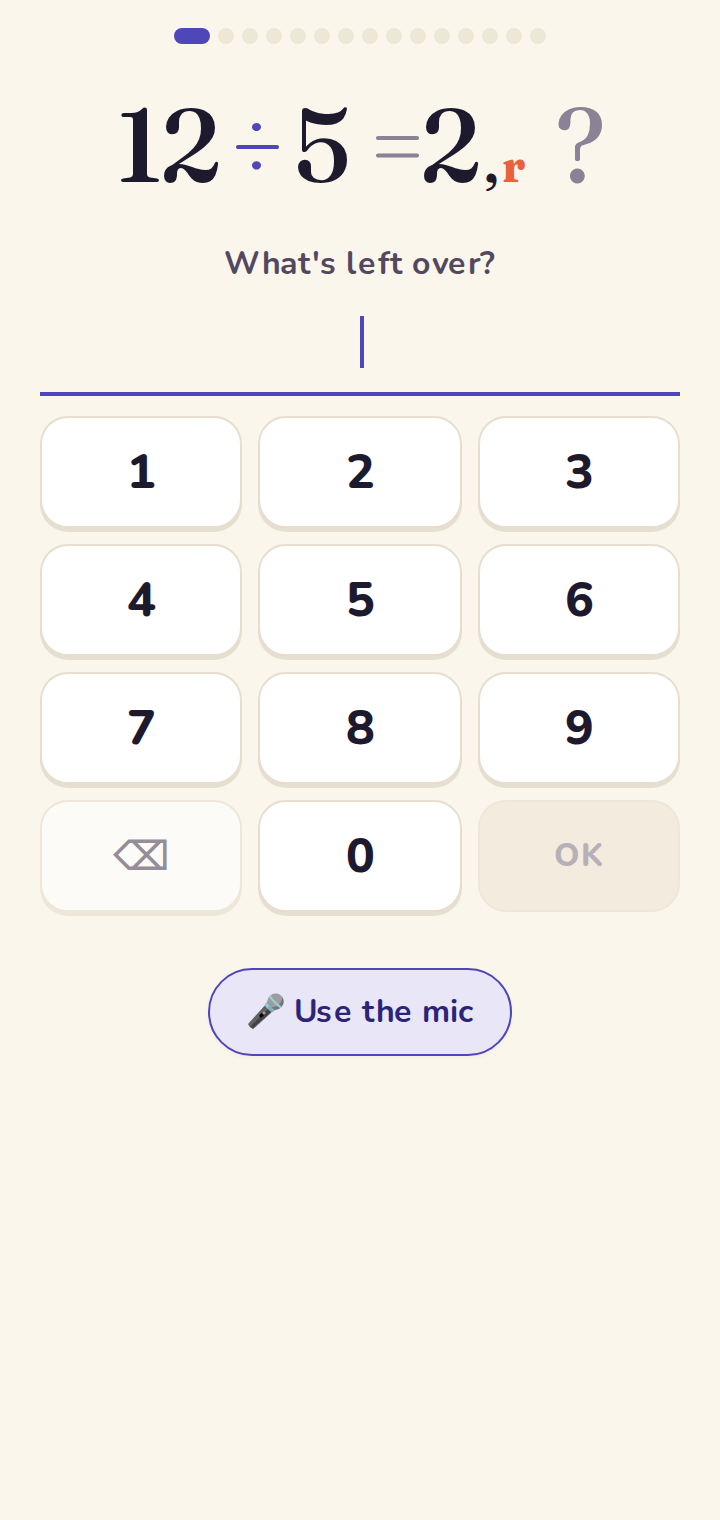
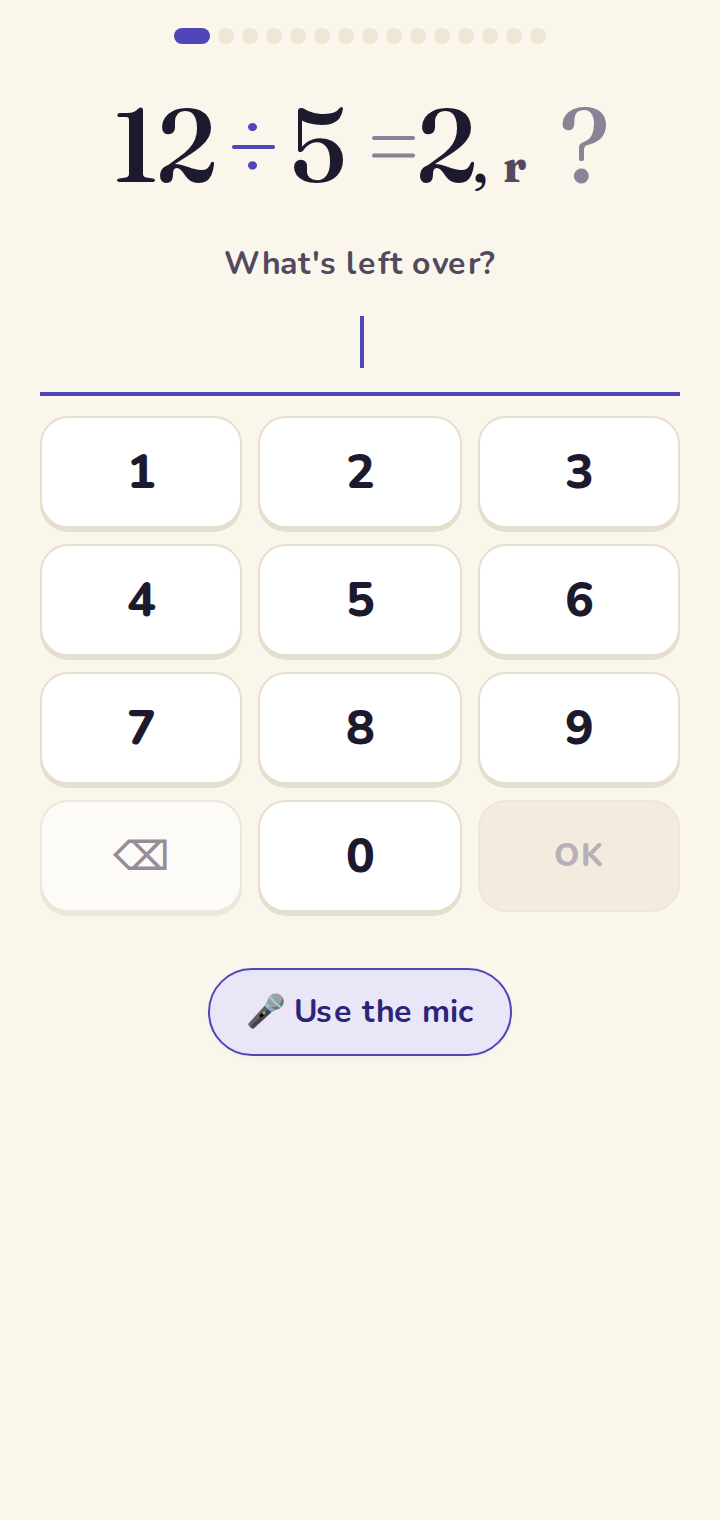
preview: specs-niveau-3-division-avec-reste @ 266270c764b578e64e679bb7e8aac4330b04ae99 7c64e7c36129242ba39f46d9a965fdb50d9a69be

diff --git a/previews/specs-niveau-3-division-avec-reste/src/screens/ParentDashboard.js b/previews/specs-niveau-3-division-avec-reste/src/screens/ParentDashboard.js
@@ -1,3 +1,3 @@
-import{Fragment as x,jsx as e,jsxs as s}from"preact/jsx-runtime";import{useState as c,useMemo as i,useEffect as oa,useRef as ca}from"react";import{isDivisionUnlocked as la,isRemainderUnlocked as da,activeLevel as ma}from"../lib/badges.js";import{countMastered as f}from"../lib/leitner.js";import{getHardestFacts as pa}from"../lib/hardestFacts.js";import{getActiveStreak as va}from"../lib/streak.js";import{todayISO as ua}from"../lib/utils.js";import ba from"../components/ProgressGrid.js";import ha from"../components/DivisionProgressGrid.js";import Na from"../components/RemainderProgressGrid.js";import ga from"../components/BackChevron.js";import fa from"../components/FeedbackModal.js";import R from"../components/EvolutionChart.js";import ka from"../components/NotificationSettings.js";import ya from"../components/LanguageToggle.js";import{useLang as Ca}from"../i18n/lang.js";import{useParentDashboardStrings as xa}from"../i18n/parent.js";import{createTransfer as Sa,transferConfigured as Ma,TRANSFER_TTL_MINUTES as wa}from"../lib/transfer.js";const I=10,Pa=20;function Ta({profile:r,onBack:B,onExport:E,onImport:_,onAddProfile:H,onDeleteProfile:U,onShowPrivacy:q,onShowChangelog:G}){const[S,M]=c(!1),[u,w]=c(""),[V,P]=c(!1),[O,Y]=c(!1),[l,b]=c("idle"),p=typeof l=="object"?l.link:null,[W,T]=c(!1),k=ca(null),F=async(t,n)=>{try{await navigator.clipboard.writeText(t),n(!0),setTimeout(()=>n(!1),2e3)}catch{}},a=xa(),{lang:D}=Ca(),y=`/previews/specs-niveau-3-division-avec-reste/guide/${D==="fr"?"":`${D}/`}`,h=i(()=>la(r),[r]),$=i(()=>da(r),[r]),N=i(()=>r.divisionFacts??[],[r.divisionFacts]),g=i(()=>r.remainderFacts??[],[r.remainderFacts]),[C,J]=c(()=>ma(r)),j=$&&C==="rem",Q=h&&C==="div",z=async()=>{const t=window.location.origin+"/previews/specs-niveau-3-division-avec-reste/";if(navigator.share){try{await navigator.share({title:"Tablito",text:a.shareText,url:t})}catch{}return}await F(t,Y)},K=async()=>{if(l!=="idle"){b("idle"),T(!1);return}b("loading");const t=await Sa(r);b(t?{link:t}:"error")};oa(()=>{if(!p)return;let t=!1;return import("lean-qr").then(({generate:n})=>{!t&&k.current&&n(p).toCanvas(k.current)}).catch(()=>{t||b("error")}),()=>{t=!0}},[p]);const o=j?{facts:g,mastered:`${f(g)}/${g.length}`,masteredLabel:a.remaindersMastered,opPlural:a.opRemaindersPlural,opSingular:a.opRemainder,grid:e(Na,{facts:g})}:Q?{facts:N,mastered:`${f(N)}/${N.length}`,masteredLabel:a.divisionsMastered,opPlural:a.opDivisionsPlural,opSingular:a.opDivision,grid:e(ha,{facts:N})}:{facts:r.facts,mastered:`${f(r.facts)}/${r.facts.length}`,masteredLabel:a.multiplicationsMastered,opPlural:a.opMultiplicationsPlural,opSingular:a.opMultiplication,grid:e(ba,{facts:r.facts})},X=[{key:"mult",label:a.multiplications},{key:"div",label:a.divisions},...$?[{key:"rem",label:a.remainders}]:[]],{boxCounts:Z,maxBoxCount:aa}=i(()=>{const t=[0,0,0,0,0,0];for(const n of o.facts)n.introduced?t[n.box]++:t[0]++;return{boxCounts:t,maxBoxCount:Math.max(...t,1)}},[o.facts]),L=i(()=>pa(r,I,5),[r]),ea=i(()=>[...r.sessionHistory].reverse().slice(0,10),[r.sessionHistory]),d=i(()=>{const t=r.sessionHistory.slice(-Pa);if(t.length<2)return null;const n=[],v=[];for(const m of t){const A=a.formatShortDate(new Date(m.date));n.push({date:A,value:Math.round(m.correctCount/m.questionsCount*100)}),v.push({date:A,value:m.averageTimeMs/1e3})}const ia=Math.max(Math.ceil(Math.max(...v.map(m=>m.value))),4);return{accuracy:n,time:v,timeYMax:ia}},[r.sessionHistory,a]),ta=`${f(r.facts)}/${r.facts.length}`,sa=["var(--box-gray)","var(--box-red)","var(--box-orange)","var(--box-yellow)","var(--box-lightgreen)","var(--box-green)"],ra=["N/A","B1","B2","B3","B4","B5"],na=()=>{u.trim()&&(_(u.trim()),M(!1),w(""))};return s("div",{className:"parent-dashboard",children:[s("div",{className:"parent-header",children:[e("button",{className:"parent-back-btn",onClick:B,"aria-label":a.back,children:e(ga,{})}),s("div",{className:"parent-header-titles",children:[e("div",{className:"parent-eyebrow",children:a.parentArea}),e("div",{className:"parent-title",children:a.profileSuffix(r.name)})]})]}),s("div",{className:"parent-section",children:[e("h3",{children:a.overview}),s("div",{className:`parent-stats-grid${h?" parent-stats-grid--three":""}`,children:[s("div",{className:"parent-stat-card",children:[e("div",{className:"parent-stat-value",children:r.totalSessions}),e("div",{className:"parent-stat-label",children:a.sessions})]}),s("div",{className:"parent-stat-card",children:[e("div",{className:"parent-stat-value",children:va(r,ua())}),e("div",{className:"parent-stat-label",children:a.currentStreak})]}),s("div",{className:"parent-stat-card",children:[e("div",{className:"parent-stat-value",children:r.longestStreak}),e("div",{className:"parent-stat-label",children:a.bestStreak})]}),!h&&s("div",{className:"parent-stat-card",children:[e("div",{className:"parent-stat-value",children:ta}),e("div",{className:"parent-stat-label",children:a.masteredFacts})]})]})]}),h&&s(x,{children:[e("div",{className:"progress-tabs parent-op-tabs",role:"tablist","aria-label":a.operation,children:X.map(({key:t,label:n})=>e("button",{type:"button",className:`progress-tab ${C===t?"active":""}`,onClick:()=>J(t),children:n},t))}),e("div",{className:"parent-section",children:s("div",{className:"parent-stat-card parent-mastery-card",children:[e("div",{className:"parent-stat-value",children:o.mastered}),e("div",{className:"parent-stat-label",children:o.masteredLabel})]})})]}),s("div",{className:"parent-section",children:[s("h3",{children:[a.boxDistribution,e("a",{className:"parent-section-help",href:`${y}#principes`,target:"_blank",rel:"noopener noreferrer","aria-label":a.learnMoreLeitner,children:"?"})]}),e("p",{className:"parent-section-subtitle",children:a.boxDistributionSubtitle(o.opPlural)}),e("div",{className:"parent-histogram",children:Z.map((t,n)=>s("div",{className:"parent-histogram-bar",children:[e("div",{className:"parent-histogram-count",children:t}),e("div",{className:"parent-histogram-fill",style:{height:`${t/aa*100}%`,background:sa[n]}}),e("div",{className:"parent-histogram-label",children:ra[n]})]},n))})]}),s("div",{className:"parent-section",children:[s("h3",{children:[a.leitnerGrid,e("a",{className:"parent-section-help",href:`${y}#principes`,target:"_blank",rel:"noopener noreferrer","aria-label":a.learnMoreLeitner,children:"?"})]}),e("p",{className:"parent-section-subtitle",children:a.leitnerGridSubtitle(o.opSingular)}),o.grid]}),d&&s(x,{children:[s("div",{className:"parent-section",children:[e("h3",{children:a.correctAnswerRate}),e(R,{data:d.accuracy,yMin:0,yMax:100,yTicks:[0,25,50,75,100],formatY:t=>`${t}%`,color:"var(--primary)"})]}),s("div",{className:"parent-section",children:[e("h3",{children:a.averageResponseTime}),e(R,{data:d.time,yMin:0,yMax:d.timeYMax,yTicks:[0,d.timeYMax/2,d.timeYMax],formatY:t=>`${t.toFixed(1)}s`,color:"var(--sage)"})]})]}),L.length>0&&s("div",{className:"parent-section",children:[e("h3",{children:a.hardestFacts}),e("p",{className:"parent-section-subtitle",children:a.hardestFactsSubtitle(I)}),e("div",{className:"parent-hard-facts",children:L.map(t=>s("div",{className:"parent-hard-fact",children:[e("span",{className:`parent-hard-fact-kind parent-hard-fact-kind--${t.kind}`,"aria-label":t.kind==="rem"?a.factRemainder:t.kind==="div"?a.factDivision:a.factMultiplication,children:t.kind==="rem"?a.remSymbol:t.kind==="div"?a.divSymbol:a.multSymbol}),e("span",{className:"parent-hard-fact-name",children:t.kind==="rem"?a.formatRemFact(t.divisor*t.quotient,t.divisor*t.quotient+t.divisor-1,t.divisor):t.kind==="div"?a.formatDivFact(t.dividend,t.divisor,t.quotient):a.formatMultFact(t.a,t.b,t.product)}),s("span",{className:"parent-hard-fact-errors",children:[a.errors(t.errorCount)," | ",a.boxLabel(t.box)]})]},`${t.kind}-${t.key}`))})]}),r.sessionHistory.length>0&&s("div",{className:"parent-section",children:[e("h3",{children:a.sessionHistory}),e("div",{className:"parent-session-history",children:ea.map(t=>{const n=a.formatLongDate(new Date(t.date)),v=(t.averageTimeMs/1e3).toFixed(1);return s("div",{className:"parent-session-row",children:[e("span",{className:"parent-session-date",children:n}),s("span",{className:"parent-session-score",children:[t.correctCount,"/",t.questionsCount]}),s("span",{className:"parent-session-time",children:[v,"s"]})]},t.date)})})]}),s("div",{className:"parent-section",children:[e("h3",{children:a.backup}),s("div",{className:"parent-actions",children:[Ma()&&e("button",{className:"parent-action-btn",onClick:K,children:a.transfer}),e("button",{className:"parent-action-btn",onClick:E,children:a.export}),e("button",{className:"parent-action-btn",onClick:()=>M(!S),children:a.import})]}),l!=="idle"&&s("div",{className:"parent-transfer-area",children:[l==="loading"&&e("p",{className:"parent-transfer-status",children:a.transferPreparing}),l==="error"&&e("p",{className:"parent-transfer-status parent-transfer-status--error",children:a.transferError}),p&&s(x,{children:[e("canvas",{ref:k,className:"parent-transfer-qr",role:"img","aria-label":a.transferQrAlt}),e("p",{className:"parent-transfer-hint",children:a.transferHint(wa)}),e("button",{className:"parent-action-btn",onClick:()=>F(p,T),children:W?a.linkCopied:a.transferCopyLink})]})]})]}),s("div",{className:"parent-section",children:[e("h3",{children:a.helpAndFeedback}),s("div",{className:"parent-actions",children:[e("a",{className:"parent-action-btn",href:y,target:"_blank",rel:"noopener noreferrer",children:a.userGuide}),e("button",{className:"parent-action-btn",onClick:()=>P(!0),children:a.sendFeedback})]})]}),e(ka,{}),s("div",{className:"parent-section",children:[e("h3",{children:a.shareTablito}),e("p",{className:"parent-section-subtitle",children:a.shareSubtitle}),e("div",{className:"parent-actions",children:e("button",{className:"parent-action-btn",onClick:z,children:O?a.linkCopied:a.shareApp})})]}),e("div",{className:"parent-section",children:e(ya,{})}),s("div",{className:"parent-section",children:[e("h3",{children:a.about}),s("div",{className:"parent-actions",children:[e("button",{className:"parent-action-btn",onClick:G,children:a.whatsNew}),e("button",{className:"parent-action-btn",onClick:q,children:a.privacy})]})]}),s("div",{className:"parent-section",children:[e("h3",{children:a.profiles}),e("p",{className:"parent-section-subtitle",children:a.profilesSubtitle(r.name)}),s("div",{className:"parent-actions",children:[e("button",{className:"parent-action-btn",onClick:H,children:a.addChild}),e("button",{className:"parent-action-btn parent-action-btn--danger",onClick:U,children:a.deleteThisProfile})]})]}),S&&s("div",{className:"parent-import-area",children:[e("textarea",{className:"parent-import-textarea",placeholder:a.pasteJsonHere,value:u,onChange:t=>w(t.target.value)}),e("button",{className:"parent-import-confirm",onClick:na,disabled:!u.trim(),children:a.confirmImport})]}),V&&e(fa,{profile:r,onClose:()=>P(!1)}),s("div",{className:"parent-version","aria-label":a.appVersionLabel,children:["v","20260723213127"]})]})}export{Ta as default};
+import{Fragment as x,jsx as e,jsxs as s}from"preact/jsx-runtime";import{useState as c,useMemo as i,useEffect as oa,useRef as ca}from"react";import{isDivisionUnlocked as la,isRemainderUnlocked as da,activeLevel as ma}from"../lib/badges.js";import{countMastered as f}from"../lib/leitner.js";import{getHardestFacts as pa}from"../lib/hardestFacts.js";import{getActiveStreak as va}from"../lib/streak.js";import{todayISO as ua}from"../lib/utils.js";import ba from"../components/ProgressGrid.js";import ha from"../components/DivisionProgressGrid.js";import Na from"../components/RemainderProgressGrid.js";import ga from"../components/BackChevron.js";import fa from"../components/FeedbackModal.js";import R from"../components/EvolutionChart.js";import ka from"../components/NotificationSettings.js";import ya from"../components/LanguageToggle.js";import{useLang as Ca}from"../i18n/lang.js";import{useParentDashboardStrings as xa}from"../i18n/parent.js";import{createTransfer as Sa,transferConfigured as Ma,TRANSFER_TTL_MINUTES as wa}from"../lib/transfer.js";const I=10,Pa=20;function Ta({profile:r,onBack:B,onExport:E,onImport:_,onAddProfile:H,onDeleteProfile:U,onShowPrivacy:q,onShowChangelog:G}){const[S,M]=c(!1),[u,w]=c(""),[V,P]=c(!1),[O,Y]=c(!1),[l,b]=c("idle"),p=typeof l=="object"?l.link:null,[W,T]=c(!1),k=ca(null),F=async(t,n)=>{try{await navigator.clipboard.writeText(t),n(!0),setTimeout(()=>n(!1),2e3)}catch{}},a=xa(),{lang:D}=Ca(),y=`/previews/specs-niveau-3-division-avec-reste/guide/${D==="fr"?"":`${D}/`}`,h=i(()=>la(r),[r]),$=i(()=>da(r),[r]),N=i(()=>r.divisionFacts??[],[r.divisionFacts]),g=i(()=>r.remainderFacts??[],[r.remainderFacts]),[C,J]=c(()=>ma(r)),j=$&&C==="rem",Q=h&&C==="div",z=async()=>{const t=window.location.origin+"/previews/specs-niveau-3-division-avec-reste/";if(navigator.share){try{await navigator.share({title:"Tablito",text:a.shareText,url:t})}catch{}return}await F(t,Y)},K=async()=>{if(l!=="idle"){b("idle"),T(!1);return}b("loading");const t=await Sa(r);b(t?{link:t}:"error")};oa(()=>{if(!p)return;let t=!1;return import("lean-qr").then(({generate:n})=>{!t&&k.current&&n(p).toCanvas(k.current)}).catch(()=>{t||b("error")}),()=>{t=!0}},[p]);const o=j?{facts:g,mastered:`${f(g)}/${g.length}`,masteredLabel:a.remaindersMastered,opPlural:a.opRemaindersPlural,opSingular:a.opRemainder,grid:e(Na,{facts:g})}:Q?{facts:N,mastered:`${f(N)}/${N.length}`,masteredLabel:a.divisionsMastered,opPlural:a.opDivisionsPlural,opSingular:a.opDivision,grid:e(ha,{facts:N})}:{facts:r.facts,mastered:`${f(r.facts)}/${r.facts.length}`,masteredLabel:a.multiplicationsMastered,opPlural:a.opMultiplicationsPlural,opSingular:a.opMultiplication,grid:e(ba,{facts:r.facts})},X=[{key:"mult",label:a.multiplications},{key:"div",label:a.divisions},...$?[{key:"rem",label:a.remainders}]:[]],{boxCounts:Z,maxBoxCount:aa}=i(()=>{const t=[0,0,0,0,0,0];for(const n of o.facts)n.introduced?t[n.box]++:t[0]++;return{boxCounts:t,maxBoxCount:Math.max(...t,1)}},[o.facts]),L=i(()=>pa(r,I,5),[r]),ea=i(()=>[...r.sessionHistory].reverse().slice(0,10),[r.sessionHistory]),d=i(()=>{const t=r.sessionHistory.slice(-Pa);if(t.length<2)return null;const n=[],v=[];for(const m of t){const A=a.formatShortDate(new Date(m.date));n.push({date:A,value:Math.round(m.correctCount/m.questionsCount*100)}),v.push({date:A,value:m.averageTimeMs/1e3})}const ia=Math.max(Math.ceil(Math.max(...v.map(m=>m.value))),4);return{accuracy:n,time:v,timeYMax:ia}},[r.sessionHistory,a]),ta=`${f(r.facts)}/${r.facts.length}`,sa=["var(--box-gray)","var(--box-red)","var(--box-orange)","var(--box-yellow)","var(--box-lightgreen)","var(--box-green)"],ra=["N/A","B1","B2","B3","B4","B5"],na=()=>{u.trim()&&(_(u.trim()),M(!1),w(""))};return s("div",{className:"parent-dashboard",children:[s("div",{className:"parent-header",children:[e("button",{className:"parent-back-btn",onClick:B,"aria-label":a.back,children:e(ga,{})}),s("div",{className:"parent-header-titles",children:[e("div",{className:"parent-eyebrow",children:a.parentArea}),e("div",{className:"parent-title",children:a.profileSuffix(r.name)})]})]}),s("div",{className:"parent-section",children:[e("h3",{children:a.overview}),s("div",{className:`parent-stats-grid${h?" parent-stats-grid--three":""}`,children:[s("div",{className:"parent-stat-card",children:[e("div",{className:"parent-stat-value",children:r.totalSessions}),e("div",{className:"parent-stat-label",children:a.sessions})]}),s("div",{className:"parent-stat-card",children:[e("div",{className:"parent-stat-value",children:va(r,ua())}),e("div",{className:"parent-stat-label",children:a.currentStreak})]}),s("div",{className:"parent-stat-card",children:[e("div",{className:"parent-stat-value",children:r.longestStreak}),e("div",{className:"parent-stat-label",children:a.bestStreak})]}),!h&&s("div",{className:"parent-stat-card",children:[e("div",{className:"parent-stat-value",children:ta}),e("div",{className:"parent-stat-label",children:a.masteredFacts})]})]})]}),h&&s(x,{children:[e("div",{className:"progress-tabs parent-op-tabs",role:"tablist","aria-label":a.operation,children:X.map(({key:t,label:n})=>e("button",{type:"button",className:`progress-tab ${C===t?"active":""}`,onClick:()=>J(t),children:n},t))}),e("div",{className:"parent-section",children:s("div",{className:"parent-stat-card parent-mastery-card",children:[e("div",{className:"parent-stat-value",children:o.mastered}),e("div",{className:"parent-stat-label",children:o.masteredLabel})]})})]}),s("div",{className:"parent-section",children:[s("h3",{children:[a.boxDistribution,e("a",{className:"parent-section-help",href:`${y}#principes`,target:"_blank",rel:"noopener noreferrer","aria-label":a.learnMoreLeitner,children:"?"})]}),e("p",{className:"parent-section-subtitle",children:a.boxDistributionSubtitle(o.opPlural)}),e("div",{className:"parent-histogram",children:Z.map((t,n)=>s("div",{className:"parent-histogram-bar",children:[e("div",{className:"parent-histogram-count",children:t}),e("div",{className:"parent-histogram-fill",style:{height:`${t/aa*100}%`,background:sa[n]}}),e("div",{className:"parent-histogram-label",children:ra[n]})]},n))})]}),s("div",{className:"parent-section",children:[s("h3",{children:[a.leitnerGrid,e("a",{className:"parent-section-help",href:`${y}#principes`,target:"_blank",rel:"noopener noreferrer","aria-label":a.learnMoreLeitner,children:"?"})]}),e("p",{className:"parent-section-subtitle",children:a.leitnerGridSubtitle(o.opSingular)}),o.grid]}),d&&s(x,{children:[s("div",{className:"parent-section",children:[e("h3",{children:a.correctAnswerRate}),e(R,{data:d.accuracy,yMin:0,yMax:100,yTicks:[0,25,50,75,100],formatY:t=>`${t}%`,color:"var(--primary)"})]}),s("div",{className:"parent-section",children:[e("h3",{children:a.averageResponseTime}),e(R,{data:d.time,yMin:0,yMax:d.timeYMax,yTicks:[0,d.timeYMax/2,d.timeYMax],formatY:t=>`${t.toFixed(1)}s`,color:"var(--sage)"})]})]}),L.length>0&&s("div",{className:"parent-section",children:[e("h3",{children:a.hardestFacts}),e("p",{className:"parent-section-subtitle",children:a.hardestFactsSubtitle(I)}),e("div",{className:"parent-hard-facts",children:L.map(t=>s("div",{className:"parent-hard-fact",children:[e("span",{className:`parent-hard-fact-kind parent-hard-fact-kind--${t.kind}`,"aria-label":t.kind==="rem"?a.factRemainder:t.kind==="div"?a.factDivision:a.factMultiplication,children:t.kind==="rem"?a.remSymbol:t.kind==="div"?a.divSymbol:a.multSymbol}),e("span",{className:"parent-hard-fact-name",children:t.kind==="rem"?a.formatRemFact(t.divisor*t.quotient,t.divisor*t.quotient+t.divisor-1,t.divisor):t.kind==="div"?a.formatDivFact(t.dividend,t.divisor,t.quotient):a.formatMultFact(t.a,t.b,t.product)}),s("span",{className:"parent-hard-fact-errors",children:[a.errors(t.errorCount)," | ",a.boxLabel(t.box)]})]},`${t.kind}-${t.key}`))})]}),r.sessionHistory.length>0&&s("div",{className:"parent-section",children:[e("h3",{children:a.sessionHistory}),e("div",{className:"parent-session-history",children:ea.map(t=>{const n=a.formatLongDate(new Date(t.date)),v=(t.averageTimeMs/1e3).toFixed(1);return s("div",{className:"parent-session-row",children:[e("span",{className:"parent-session-date",children:n}),s("span",{className:"parent-session-score",children:[t.correctCount,"/",t.questionsCount]}),s("span",{className:"parent-session-time",children:[v,"s"]})]},t.date)})})]}),s("div",{className:"parent-section",children:[e("h3",{children:a.backup}),s("div",{className:"parent-actions",children:[Ma()&&e("button",{className:"parent-action-btn",onClick:K,children:a.transfer}),e("button",{className:"parent-action-btn",onClick:E,children:a.export}),e("button",{className:"parent-action-btn",onClick:()=>M(!S),children:a.import})]}),l!=="idle"&&s("div",{className:"parent-transfer-area",children:[l==="loading"&&e("p",{className:"parent-transfer-status",children:a.transferPreparing}),l==="error"&&e("p",{className:"parent-transfer-status parent-transfer-status--error",children:a.transferError}),p&&s(x,{children:[e("canvas",{ref:k,className:"parent-transfer-qr",role:"img","aria-label":a.transferQrAlt}),e("p",{className:"parent-transfer-hint",children:a.transferHint(wa)}),e("button",{className:"parent-action-btn",onClick:()=>F(p,T),children:W?a.linkCopied:a.transferCopyLink})]})]})]}),s("div",{className:"parent-section",children:[e("h3",{children:a.helpAndFeedback}),s("div",{className:"parent-actions",children:[e("a",{className:"parent-action-btn",href:y,target:"_blank",rel:"noopener noreferrer",children:a.userGuide}),e("button",{className:"parent-action-btn",onClick:()=>P(!0),children:a.sendFeedback})]})]}),e(ka,{}),s("div",{className:"parent-section",children:[e("h3",{children:a.shareTablito}),e("p",{className:"parent-section-subtitle",children:a.shareSubtitle}),e("div",{className:"parent-actions",children:e("button",{className:"parent-action-btn",onClick:z,children:O?a.linkCopied:a.shareApp})})]}),e("div",{className:"parent-section",children:e(ya,{})}),s("div",{className:"parent-section",children:[e("h3",{children:a.about}),s("div",{className:"parent-actions",children:[e("button",{className:"parent-action-btn",onClick:G,children:a.whatsNew}),e("button",{className:"parent-action-btn",onClick:q,children:a.privacy})]})]}),s("div",{className:"parent-section",children:[e("h3",{children:a.profiles}),e("p",{className:"parent-section-subtitle",children:a.profilesSubtitle(r.name)}),s("div",{className:"parent-actions",children:[e("button",{className:"parent-action-btn",onClick:H,children:a.addChild}),e("button",{className:"parent-action-btn parent-action-btn--danger",onClick:U,children:a.deleteThisProfile})]})]}),S&&s("div",{className:"parent-import-area",children:[e("textarea",{className:"parent-import-textarea",placeholder:a.pasteJsonHere,value:u,onChange:t=>w(t.target.value)}),e("button",{className:"parent-import-confirm",onClick:na,disabled:!u.trim(),children:a.confirmImport})]}),V&&e(fa,{profile:r,onClose:()=>P(!1)}),s("div",{className:"parent-version","aria-label":a.appVersionLabel,children:["v","20260725074117"]})]})}export{Ta as default};
 
 //# sourceMappingURL=ParentDashboard.js.map

diff --git a/previews/specs-niveau-3-division-avec-reste/src/lib/feedback.js b/previews/specs-niveau-3-division-avec-reste/src/lib/feedback.js
@@ -1,3 +1,3 @@
-import{countMastered as r}from"./leitner.js";import{supabaseEnv as m,supabaseHeaders as d}from"./supabase.js";const u="https://cseyzitvqvyuabmenntb.supabase.co",_="sb_publishable_WKCgKA1DIyj8o1eG4_Pciw_ZoujAiqj",l=!!m();function v(t,s=!1){const e={app_version:"20260723213127",user_agent:navigator.userAgent,locale:navigator.language,viewport:{w:window.innerWidth,h:window.innerHeight}};if(t){const o=new Date(t.startDate).getTime(),i=Math.max(0,Math.floor((Date.now()-o)/864e5));e.stats={total_sessions:t.totalSessions,facts_mastered:r(t.facts),facts_total:t.facts.length,current_streak:t.currentStreak,days_since_start:i};const a=t.divisionFacts??[];if(a.some(n=>n.introduced)&&(e.stats.divisions_mastered=r(a),e.stats.divisions_total=a.length),s){const{name:n,...c}=t;e.profile_snapshot=c}}return e}async function p(t){if(!l)throw new Error("Feedback d\xE9sactiv\xE9 (configuration manquante)");const s=await fetch(`${u}/rest/v1/feedback`,{method:"POST",headers:{...d(_),Prefer:"return=minimal"},body:JSON.stringify({message:t.message,email:t.email&&t.email.trim()?t.email.trim():null,context:t.context})});if(!s.ok){const e=await s.text().catch(()=>"");throw new Error(e||`HTTP ${s.status}`)}}export{v as buildContext,l as feedbackEnabled,p as submitFeedback};
+import{countMastered as r}from"./leitner.js";import{supabaseEnv as m,supabaseHeaders as d}from"./supabase.js";const u="https://cseyzitvqvyuabmenntb.supabase.co",_="sb_publishable_WKCgKA1DIyj8o1eG4_Pciw_ZoujAiqj",l=!!m();function v(t,s=!1){const e={app_version:"20260725074117",user_agent:navigator.userAgent,locale:navigator.language,viewport:{w:window.innerWidth,h:window.innerHeight}};if(t){const o=new Date(t.startDate).getTime(),i=Math.max(0,Math.floor((Date.now()-o)/864e5));e.stats={total_sessions:t.totalSessions,facts_mastered:r(t.facts),facts_total:t.facts.length,current_streak:t.currentStreak,days_since_start:i};const a=t.divisionFacts??[];if(a.some(n=>n.introduced)&&(e.stats.divisions_mastered=r(a),e.stats.divisions_total=a.length),s){const{name:n,...c}=t;e.profile_snapshot=c}}return e}async function p(t){if(!l)throw new Error("Feedback d\xE9sactiv\xE9 (configuration manquante)");const s=await fetch(`${u}/rest/v1/feedback`,{method:"POST",headers:{...d(_),Prefer:"return=minimal"},body:JSON.stringify({message:t.message,email:t.email&&t.email.trim()?t.email.trim():null,context:t.context})});if(!s.ok){const e=await s.text().catch(()=>"");throw new Error(e||`HTTP ${s.status}`)}}export{v as buildContext,l as feedbackEnabled,p as submitFeedback};
 
 //# sourceMappingURL=feedback.js.map

diff --git a/previews/specs-niveau-3-division-avec-reste/guide/index.html b/previews/specs-niveau-3-division-avec-reste/guide/index.html
@@ -509,7 +509,7 @@
           </figure>
 
           <figure class="shot">
-            <img src="screenshots/22-remainder-question.png?v=fb52f604" alt="La réponse en deux temps : le quotient validé s'installe dans la formule, puis « Il reste combien ? »." width="360" height="760" loading="lazy" />
+            <img src="screenshots/22-remainder-question.png?v=3b8834a1" alt="La réponse en deux temps : le quotient validé s'installe dans la formule, puis « Il reste combien ? »." width="360" height="760" loading="lazy" />
             <figcaption>La réponse en deux temps : le quotient validé s'installe dans la formule, puis « Il reste combien ? ».</figcaption>
           </figure>
 
@@ -598,7 +598,7 @@
     <a href="https://github.com/isc/tablito">code source</a>
   </p>
   <p>
-    Guide généré automatiquement le 2026-07-23.
+    Guide généré automatiquement le 2026-07-25.
   </p>
 </footer>
 </body>

diff --git a/previews/specs-niveau-3-division-avec-reste/guide/en/index.html b/previews/specs-niveau-3-division-avec-reste/guide/en/index.html
@@ -508,7 +508,7 @@
           </figure>
 
           <figure class="shot">
-            <img src="screenshots/22-remainder-question.png?v=dbed2e10" alt="Answering in two steps: the validated quotient settles into the formula, then &quot;What's left over?&quot;." width="360" height="760" loading="lazy" />
+            <img src="screenshots/22-remainder-question.png?v=9b4090a0" alt="Answering in two steps: the validated quotient settles into the formula, then &quot;What's left over?&quot;." width="360" height="760" loading="lazy" />
             <figcaption>Answering in two steps: the validated quotient settles into the formula, then "What's left over?".</figcaption>
           </figure>
 
@@ -597,7 +597,7 @@
     <a href="https://github.com/isc/tablito">source code</a>
   </p>
   <p>
-    Guide generated automatically on 2026-07-23.
+    Guide generated automatically on 2026-07-25.
   </p>
 </footer>
 </body>

diff --git a/previews/specs-niveau-3-division-avec-reste/styles.css b/previews/specs-niveau-3-division-avec-reste/styles.css
@@ -4745,15 +4745,19 @@ input, select, textarea {
   text-align: center;
 }
 
-/* « reste » intercalé dans la formule (« 45 ÷ 7 = 6, reste ? »). */
+/* « reste » intercalé dans la formule (« 45 ÷ 7 = 6, reste ? »). La virgule
+   colle au quotient (::before sans marge gauche) et l'espacement se fait par
+   marges explicites — l'espace typographique serait illisible à 0.45em. Encre
+   douce, pas de couleur d'alerte : ce n'est pas un signal, juste un mot. */
 .formula-remainder {
-  margin: 0 0.2em 0 0.15em;
+  margin: 0 0.25em 0 0;
   font-size: 0.45em;
   font-weight: 700;
-  color: var(--coral);
+  color: var(--ink-soft);
 }
 .formula-remainder::before {
-  content: ', ';
+  content: ',';
+  margin-right: 0.4em;
   color: var(--ink);
 }
 

diff --git a/previews/specs-niveau-3-division-avec-reste/sw.js b/previews/specs-niveau-3-division-avec-reste/sw.js
@@ -26,7 +26,7 @@
 // Les marqueurs de version, de base path et de liste d'assets sont
 // substitués par scripts/build.mjs.
 
-const CACHE = 'tablito-' + "20260723213127"
+const CACHE = 'tablito-' + "20260725074117"
 const BASE = "/previews/specs-niveau-3-division-avec-reste/"
 const ASSETS = [
   "/previews/specs-niveau-3-division-avec-reste/CNAME",
